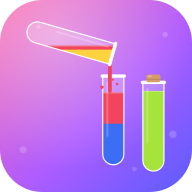
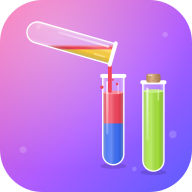
Seamless liquid layers that tilt with the start-screen tubes; Arabic text in Modern Standard Arabic
Claude-Session: https://claude.ai/code/session_018fWx3sb4k38H3yoaSVgWyv

diff --git a/src/js/i18n.js b/src/js/i18n.js
@@ -1,4 +1,4 @@
-// Arabic and English strings. Arabic is written in a friendly Egyptian tone.
+// Arabic and English strings. Arabic is plain, simple Modern Standard Arabic.
 (function (root) {
   'use strict';
   const CP = root.CP = root.CP || {};
@@ -113,110 +113,110 @@
     },
     ar: {
       appName: 'صبّ الألوان',
-      tagline: 'صُبّ، رتّب، وروّق',
+      tagline: 'اسكب، رتّب، واستمتع',
       play: 'العب',
-      level: 'الدور {n}',
-      moves: '{n} خطوة',
-      undo: 'رجوع', restart: 'من الأول', addTube: 'إزازة', hint: 'تلميح',
-      home: 'الرئيسية', settings: 'الإعدادات', close: 'اقفل', back: 'رجوع',
-      tag_boss: 'دور صعب', tag_mystery: 'ألوان مخفية', tag_chill: 'دور رايق', tag_tall: 'إزايز طويلة', tag_daily: 'تحدّي اليوم',
-      intro_mystery: 'في ألوان مستخبية، وهتبان لما توصل لفوق.',
-      intro_tall: 'الإزايز دي بتشيل 5 طبقات.',
-      intro_boss: 'دور صعب، خد وقتك.',
-      tut1: 'دوس على إزازة عشان ترفعها',
-      tut2: 'دلوقتي دوس على الإزازة اللي هتصبّ فيها',
-      tutRule: 'تقدر تصبّ بس على نفس اللون، أو في إزازة فاضية',
-      winTitle: 'برافو! خلّصت الدور',
-      dailyWinTitle: 'كسبت تحدّي النهارده!',
-      next: 'الدور اللي بعده',
-      watchX: 'شوف فيديو ×{n}',
+      level: 'المستوى {n}',
+      moves: 'الحركات: {n}',
+      undo: 'تراجع', restart: 'إعادة', addTube: 'أنبوب', hint: 'تلميح',
+      home: 'الرئيسية', settings: 'الإعدادات', close: 'إغلاق', back: 'رجوع',
+      tag_boss: 'مستوى صعب', tag_mystery: 'ألوان مخفية', tag_chill: 'مستوى سهل', tag_tall: 'أنابيب طويلة', tag_daily: 'تحدي اليوم',
+      intro_mystery: 'بعض الألوان مخفية، وستظهر عندما تصل إلى الأعلى.',
+      intro_tall: 'تتسع هذه الأنابيب لخمس طبقات.',
+      intro_boss: 'مستوى صعب، خذ وقتك.',
+      tut1: 'اضغط على أنبوب لترفعه',
+      tut2: 'الآن اضغط على الأنبوب الذي تريد السكب فيه',
+      tutRule: 'يمكنك السكب فوق اللون نفسه فقط، أو في أنبوب فارغ',
+      winTitle: 'أحسنت! أنهيت المستوى',
+      dailyWinTitle: 'فزت بتحدي اليوم!',
+      next: 'المستوى التالي',
+      watchX: 'شاهد فيديو ×{n}',
       collect: 'استلم',
-      stuckTitle: 'مفيش حركات',
-      stuckBody: 'اتزنقت! اختار حاجة:',
-      deadEnd: 'الوضع ده مالوش حل. ارجع كام خطوة أو زوّد إزازة.',
-      notEnough: 'عملاتك مش مكفّية',
-      undoOutTitle: 'خلصت مرات الرجوع',
-      undoOutBody: 'خد 5 مرات رجوع كمان للدور ده.',
-      tubeTitle: 'إزازة زيادة',
-      tubeBody: 'زوّد إزازة فاضية في الدور ده.',
-      tubeUsed: 'انت زوّدت إزازة في الدور ده خلاص',
+      stuckTitle: 'لا توجد حركات',
+      stuckBody: 'لا توجد حركات متاحة. اختر أحد الحلول:',
+      deadEnd: 'لا يوجد حل لهذا الوضع. تراجع بضع خطوات أو أضف أنبوبًا.',
+      notEnough: 'عملاتك غير كافية',
+      undoOutTitle: 'نفدت مرات التراجع',
+      undoOutBody: 'احصل على 5 مرات تراجع إضافية لهذا المستوى.',
+      tubeTitle: 'أنبوب إضافي',
+      tubeBody: 'أضف أنبوبًا فارغًا إلى هذا المستوى.',
+      tubeUsed: 'لقد أضفت أنبوبًا في هذا المستوى بالفعل',
       hintTitle: 'تلميح',
-      hintBody: 'هنوريك الخطوة الصح اللي جاية.',
-      free: 'ببلاش',
+      hintBody: 'سنريك الحركة الصحيحة التالية.',
+      free: 'مجانًا',
       or: 'أو',
-      useOne: 'استخدم واحدة (معاك {n})',
-      tubeAdded: 'اتزودت إزازة',
-      giftTitle: 'هدية النهارده',
-      giftBody: 'ارجع كل يوم والهدية تكبر. لو فوّت يوم بتبدأ من الأول.',
-      day: 'يوم {n}',
+      useOne: 'استخدم واحدًا (لديك {n})',
+      tubeAdded: 'أُضيف أنبوب',
+      giftTitle: 'هدية اليوم',
+      giftBody: 'عُد كل يوم لتكبر هديتك. إذا فاتك يوم تبدأ من جديد.',
+      day: 'اليوم {n}',
       claim: 'استلم',
-      giftTomorrow: 'تعالى بكرة تاخد هدية يوم {n}',
-      dailyTitle: 'تحدّي اليوم',
-      dailyBody: 'دور مميز كل يوم، فيه ألوان مخفية.',
-      dailyReward: 'الجايزة',
-      dailyDone: 'خلّصته النهارده',
-      dailyPlay: 'العب التحدّي',
-      dailyNew: 'تحدّي جديد بعد {h} ساعة',
+      giftTomorrow: 'عُد غدًا لتحصل على هدية اليوم {n}',
+      dailyTitle: 'تحدي اليوم',
+      dailyBody: 'مستوى مميز كل يوم، فيه ألوان مخفية.',
+      dailyReward: 'الجائزة',
+      dailyDone: 'أنهيته اليوم',
+      dailyPlay: 'العب التحدي',
+      dailyNew: 'تحدٍّ جديد بعد: {h} س',
       wheelTitle: 'عجلة الحظ',
-      spinFree: 'لِف ببلاش',
-      spinVideo: 'لِف تاني',
-      spinsLeft: 'فاضلّك {n} لفّات بالفيديو النهارده',
-      wheelTomorrow: 'تعالى بكرة تاني',
-      youWon: 'كسبت {x}!',
+      spinFree: 'أدِر مجانًا',
+      spinVideo: 'أدِر مرة أخرى',
+      spinsLeft: 'المحاولات المتبقية بالفيديو اليوم: {n}',
+      wheelTomorrow: 'عُد غدًا',
+      youWon: 'ربحت {x}!',
       shopTitle: 'المتجر',
-      tab_tube: 'الإزايز', tab_liquid: 'السوائل', tab_bg: 'الخلفيات', tab_fx: 'الاحتفال', tab_boost: 'المساعدات',
-      use: 'استخدم', inUse: 'مستخدم',
-      bought: 'اتفتحت!',
-      freeCoins: 'عملات ببلاش',
-      freeCoinsBody: '+{n} عملة لكل فيديو · فاضل {left} النهارده',
-      freeCoinsDone: 'تعالى بكرة',
-      have: 'معاك {n}',
-      levelsTitle: 'الأدوار',
+      tab_tube: 'الأنابيب', tab_liquid: 'السوائل', tab_bg: 'الخلفيات', tab_fx: 'الاحتفال', tab_boost: 'المساعدات',
+      use: 'استخدم', inUse: 'مُستخدَم',
+      bought: 'تم الفتح!',
+      freeCoins: 'عملات مجانية',
+      freeCoinsBody: '+{n} عملة لكل فيديو · المتبقي اليوم: {left}',
+      freeCoinsDone: 'عُد غدًا',
+      have: 'لديك {n}',
+      levelsTitle: 'المستويات',
       settingsTitle: 'الإعدادات',
       language: 'اللغة',
-      theme: 'الشكل',
-      themeAuto: 'تلقائي', themeLight: 'فاتح', themeDark: 'غامق',
-      sound: 'الأصوات', music: 'الموسيقى', haptics: 'الاهتزاز',
-      symbols: 'أشكال على الألوان', symbolsHint: 'بيحط شكل على كل لون عشان تفرّق بينهم بسهولة',
-      account: 'احفظ تقدّمك',
-      accountBody: 'سجّل دخول عشان أدوارك وعملاتك يفضلوا معاك على أي موبايل.',
-      withGoogle: 'كمّل بجوجل', withFacebook: 'كمّل بفيسبوك', withEmail: 'كمّل بالإيميل',
+      theme: 'المظهر',
+      themeAuto: 'تلقائي', themeLight: 'فاتح', themeDark: 'داكن',
+      sound: 'المؤثرات الصوتية', music: 'الموسيقى', haptics: 'الاهتزاز',
+      symbols: 'رموز الألوان', symbolsHint: 'يضيف رمزًا لكل لون ليسهل التمييز بينها',
+      account: 'احفظ تقدمك',
+      accountBody: 'سجّل الدخول لتبقى مستوياتك وعملاتك معك على أي جهاز.',
+      withGoogle: 'المتابعة باستخدام Google', withFacebook: 'المتابعة باستخدام Facebook', withEmail: 'المتابعة بالبريد الإلكتروني',
       soon: 'قريبًا',
-      friends: 'الأصحاب', friendsBody: 'سابق صحابك وابعتلهم هدايا',
-      reset: 'امسح كل التقدّم', resetConfirm: 'دوس تاني عشان تمسح كل حاجة',
-      resetDone: 'التقدّم اتمسح',
+      friends: 'الأصدقاء', friendsBody: 'سابق أصدقاءك وأرسل إليهم الهدايا',
+      reset: 'حذف كل التقدم', resetConfirm: 'اضغط مرة أخرى لحذف كل شيء',
+      resetDone: 'تم حذف التقدم',
       adLabel: 'إعلان تجريبي',
-      adTitle: 'مكافأتك جاية',
-      adBody: 'في نسخة التطبيق، هنا هيشتغل فيديو إعلان حقيقي.',
-      adGet: 'خد المكافأة',
-      adLeaveQ: 'تقفل دلوقتي وتخسر المكافأة؟',
-      adKeep: 'كمّل', adLeave: 'اقفل',
-      adFail: 'مفيش فيديو دلوقتي، جرّب كمان شوية.',
-      prize_coins: '{n} عملة', prize_hint: 'تلميح', prize_tube: 'إزازة زيادة',
+      adTitle: 'مكافأتك في الطريق',
+      adBody: 'في نسخة التطبيق سيُعرض هنا إعلان فيديو حقيقي.',
+      adGet: 'احصل على المكافأة',
+      adLeaveQ: 'هل تريد الإغلاق الآن وخسارة المكافأة؟',
+      adKeep: 'متابعة', adLeave: 'إغلاق',
+      adFail: 'لا يتوفر فيديو الآن، حاول بعد قليل.',
+      prize_coins: '{n} عملة', prize_hint: 'تلميح', prize_tube: 'أنبوب إضافي',
       gotCoins: '+{n} عملة',
-      replay: 'إعادة',
-      soonToast: 'هتبقى موجودة في نسخة التطبيق',
-      item_classic: 'كلاسيك', item_glass: 'كوباية', item_vial: 'قارورة', item_cup: 'كاس', item_crystal: 'كريستال', item_golden: 'دهبي',
-      item_juicy: 'عصير', item_pastel: 'باستيل', item_glossy: 'لامع', item_neon: 'نيون', item_bubbles: 'فقاقيع', item_glitter: 'جليتر',
-      item_cloud: 'سحاب', item_sky: 'سما', item_ocean: 'بحر', item_mint: 'نعناع', item_sunset: 'غروب', item_desert: 'صحرا', item_space: 'فضاء',
-      item_confetti: 'كونفيتي', item_hearts: 'قلوب', item_stars: 'نجوم', item_fireworks: 'صواريخ',
-      item_hint: 'تلميح', item_tube: 'إزازة زيادة',
-      dailyShort: 'التحدّي', wheelShort: 'العجلة',
-      duelTile: 'العب مع صاحبك', duelTileSub: 'سباق مباشر وإيموشنات', newBadge: 'جديد',
-      duelTitle: 'العب مع صاحبك',
-      duelBody: 'انت وصاحبك في نفس الدور، واللي يرتّبه الأول يكسب.',
-      duelCreate: 'اعمل لعبة جديدة', duelJoin: 'ادخل', duelCodePh: 'كود اللعبة',
-      duelShare: 'ابعت الكود ده لصاحبك', duelCopy: 'انسخ', duelCopied: 'اتنسخ',
-      duelWaiting: 'مستني صاحبك يدخل…', duelWaitingShort: 'مستنيه…',
-      duelReady: 'أنا جاهز', duelWaitFriend: 'مستني صاحبك…', duelIsReady: 'جاهز', duelNotReady: 'لسه مش جاهز',
-      duelLeave: 'اخرج', duelRound: 'الجولة {n}', duelYou: 'انت', duelFriend: 'صاحبك', duelLeftShort: 'خرج',
-      duelWin: 'كسبت!', duelLose: '{name} كسب الجولة دي', duelAgain: 'العب تاني',
-      duelFriendWants: '{name} عايز يلعب تاني!', duelLeft: '{name} خرج من اللعبة',
-      duelUnavailable: 'اللعب المباشر بيشتغل لما تفتح اللعبة من اللينك وانت مسجّل دخول. وفي نسخة التطبيق هييجي مع الحسابات.',
-      duelShareNote: 'لازم صاحبك يكون معاه صلاحية على لينك اللعبة (من زرار المشاركة).',
-      duelBadCode: 'اكتب الكود (4 حروف)', duelConnecting: 'بنوصّلك…',
-      emotes: 'إيموشنات', msgPh: 'اكتب رسالة', send: 'ابعت', go: 'يلا!',
-      phr_hi: 'أهلًا!', phr_gg: 'لعبة حلوة!', phr_fast: 'أسرع منك يا معلم', phr_wait: 'استناني!', phr_again: 'نلعب تاني؟', phr_wow: 'يا سلام!',
+      replay: 'إعادة اللعب',
+      soonToast: 'ستتوفر في نسخة التطبيق',
+      item_classic: 'كلاسيكي', item_glass: 'كوب', item_vial: 'قارورة', item_cup: 'كأس', item_crystal: 'كريستال', item_golden: 'ذهبي',
+      item_juicy: 'عصير', item_pastel: 'باستيل', item_glossy: 'لامع', item_neon: 'نيون', item_bubbles: 'فقاعات', item_glitter: 'بريق',
+      item_cloud: 'سحاب', item_sky: 'سماء', item_ocean: 'بحر', item_mint: 'نعناع', item_sunset: 'غروب', item_desert: 'صحراء', item_space: 'فضاء',
+      item_confetti: 'قصاصات ملونة', item_hearts: 'قلوب', item_stars: 'نجوم', item_fireworks: 'ألعاب نارية',
+      item_hint: 'تلميح', item_tube: 'أنبوب إضافي',
+      dailyShort: 'التحدي', wheelShort: 'العجلة',
+      duelTile: 'العب مع صديق', duelTileSub: 'سباق مباشر ورموز تعبيرية', newBadge: 'جديد',
+      duelTitle: 'العب مع صديق',
+      duelBody: 'أنت وصديقك في المستوى نفسه، ومن يرتّبه أولًا يفوز.',
+      duelCreate: 'أنشئ لعبة جديدة', duelJoin: 'انضم', duelCodePh: 'رمز اللعبة',
+      duelShare: 'أرسل هذا الرمز إلى صديقك', duelCopy: 'نسخ', duelCopied: 'تم النسخ',
+      duelWaiting: 'في انتظار انضمام صديقك…', duelWaitingShort: 'في الانتظار…',
+      duelReady: 'أنا مستعد', duelWaitFriend: 'في انتظار صديقك…', duelIsReady: 'مستعد', duelNotReady: 'غير مستعد بعد',
+      duelLeave: 'مغادرة', duelRound: 'الجولة {n}', duelYou: 'أنت', duelFriend: 'صديقك', duelLeftShort: 'غادر',
+      duelWin: 'فزت!', duelLose: 'فاز {name} بهذه الجولة', duelAgain: 'العب مجددًا',
+      duelFriendWants: '{name} يريد اللعب مجددًا!', duelLeft: 'غادر {name} اللعبة',
+      duelUnavailable: 'يعمل اللعب المباشر عند فتح اللعبة من الرابط مع تسجيل الدخول، وسيتوفر في نسخة التطبيق مع الحسابات.',
+      duelShareNote: 'يجب أن يملك صديقك صلاحية الوصول إلى رابط اللعبة (من زر المشاركة).',
+      duelBadCode: 'اكتب الرمز (4 أحرف)', duelConnecting: 'جارٍ الاتصال…',
+      emotes: 'رموز تعبيرية', msgPh: 'اكتب رسالة', send: 'إرسال', go: 'انطلق!',
+      phr_hi: 'مرحبًا!', phr_gg: 'لعبة رائعة!', phr_fast: 'أنا أسرع منك', phr_wait: 'انتظرني!', phr_again: 'نلعب مجددًا؟', phr_wow: 'رائع!',
     },
   };
 

diff --git a/src/js/render.js b/src/js/render.js
@@ -178,14 +178,18 @@
     pathFrom(ctx, poly);
     ctx.clip();
 
-    // liquid bands, each cut by a level line so the surface stays flat while tilting
+    // liquid bands. Normally each is cut by a level line so the surface stays flat while pouring;
+    // a "rigid" tube (the start screen characters) keeps its layers square to the glass instead.
+    const rigid = !!tv.rigid && !upright;
     const unitA = UNIT * W * W;
-    let cum = 0, lowY = b.y1 + 2;
+    const polyU = rigid ? transform(g.poly, W, 0, 0, 0) : null;
+    const bU = rigid ? bounds(polyU) : null;
+    let cum = 0, lowY = (rigid ? bU.y1 : b.y1) + 2;
     const bands = [];
     for (const L of tv.layers) {
       if (L.amt <= 0.001) continue;
       cum += L.amt * unitA;
-      const h = levelFor(poly, b, cum);
+      const h = rigid ? levelFor(polyU, bU, cum) : levelFor(poly, b, cum);
       bands.push({ L, top: h, bot: lowY });
       lowY = h;
     }
@@ -194,22 +198,26 @@
       if (!L.hidden && L.reveal != null && L.reveal < 1) col = mix(th.mystery, col, L.reveal);
       return col;
     };
-    for (const band of bands) {
+    // Paint from the top band down, each reaching to the bottom of the tube, so neighbouring
+    // colours always overlap and no seam can show between them.
+    if (rigid) local();
+    const fx = rigid ? -W : b.x0 - 4, fw = rigid ? W * 2 : b.x1 - b.x0 + 8, floorY = (rigid ? bU.y1 : b.y1) + 4;
+    for (let i = bands.length - 1; i >= 0; i--) {
+      const band = bands[i];
       ctx.fillStyle = colorOf(band.L);
-      ctx.fillRect(b.x0 - 4, band.top - 0.5, b.x1 - b.x0 + 8, band.bot - band.top + 1);
-      if (style.liquid === 'glossy' || style.liquid === 'neon') {
-        ctx.fillStyle = style.liquid === 'neon' ? 'rgba(255,255,255,0.55)' : 'rgba(255,255,255,0.3)';
-        ctx.fillRect(b.x0 - 4, band.top, b.x1 - b.x0 + 8, Math.max(1.5, W * 0.05));
-      }
+      ctx.fillRect(fx, band.top - 0.5, fw, floorY - band.top + 0.5);
     }
+    if (style.liquid === 'glossy' || style.liquid === 'neon') {
+      ctx.fillStyle = style.liquid === 'neon' ? 'rgba(255,255,255,0.55)' : 'rgba(255,255,255,0.3)';
+      for (const band of bands) ctx.fillRect(fx, band.top, fw, Math.max(1.5, W * 0.05));
+    }
+    if (rigid) ctx.restore();
     if (bands.length) {
       const top = bands[bands.length - 1].top;
       // round, lit shading across the liquid
       ctx.save();
-      ctx.beginPath();
-      ctx.rect(b.x0 - 6, top, b.x1 - b.x0 + 12, b.y1 - top + 6);
-      ctx.clip();
-      local();
+      if (rigid) { local(); ctx.beginPath(); ctx.rect(-W, top, W * 2, bU.y1 - top + 6); ctx.clip(); }
+      else { ctx.beginPath(); ctx.rect(b.x0 - 6, top, b.x1 - b.x0 + 12, b.y1 - top + 6); ctx.clip(); local(); }
       const sh = ctx.createLinearGradient(-W / 2, 0, W / 2, 0);
       sh.addColorStop(0, 'rgba(0,0,0,0.24)');
       sh.addColorStop(0.22, 'rgba(255,255,255,0.10)');
@@ -220,17 +228,17 @@
       ctx.fillRect(-W, -W, W * 2, g.H * W + W * 2);
       ctx.restore();
       ctx.restore();
-      // the surface: a lit ellipse when standing, a bright line when tilted
+      // the surface: a lit ellipse when standing (or rigid), a bright line when the liquid levels out
       const topCol = colorOf(bands[bands.length - 1].L);
-      if (upright) {
+      if (upright || rigid) {
         ctx.fillStyle = mix(topCol.length === 7 ? topCol : '#888888', '#FFFFFF', 0.38);
-        ctx.beginPath();
-        ctx.ellipse(tv.x, top, W * 0.47, W * 0.085, 0, 0, Math.PI * 2);
-        ctx.fill();
+        if (rigid) { local(); ctx.beginPath(); ctx.ellipse(0, top, W * 0.47, W * 0.085, 0, 0, Math.PI * 2); ctx.fill(); ctx.restore(); }
+        else { ctx.beginPath(); ctx.ellipse(tv.x, top, W * 0.47, W * 0.085, 0, 0, Math.PI * 2); ctx.fill(); }
       } else {
         ctx.fillStyle = 'rgba(255,255,255,0.38)';
         ctx.fillRect(b.x0 - 4, top, b.x1 - b.x0 + 8, Math.max(1.5, W * 0.045));
       }
+      if (rigid) { bands.forEach(bd => { bd.top = tv.y + Math.cos(a) * bd.top; bd.bot = tv.y + Math.cos(a) * bd.bot; }); }
       if (style.liquid === 'bubbles' || style.liquid === 'glitter') drawSparkles(ctx, tv, b, top, W, style);
     }
 

diff --git a/src/js/ui.js b/src/js/ui.js
@@ -557,7 +557,7 @@
       const bx = cx + ch.dx * W, by = floor - hop + bob;
       const HW = g.H * Wi;
       const px = bx + Math.sin(sway) * HW, py = by - Math.cos(sway) * HW;
-      R.drawTube(ctx, { id: 20 + i, x: px, y: py, angle: sway, W: Wi, layers: ch.layers.map(c2 => ({ c: c2, amt: 1, hidden: false })), complete: false, shadow: false }, g, style);
+      R.drawTube(ctx, { id: 20 + i, x: px, y: py, angle: sway, W: Wi, layers: ch.layers.map(c2 => ({ c: c2, amt: 1, hidden: false })), complete: false, shadow: false, rigid: true }, g, style);
       const fy = HW * 0.6;
       ctx.save();
       ctx.translate(px - Math.sin(sway) * fy, py + Math.cos(sway) * fy);

diff --git a/tools/make-icons.js b/tools/make-icons.js
@@ -68,7 +68,7 @@ window.draw = (kind, w, h) => {
     ctx.shadowBlur = 0; ctx.shadowOffsetY = 0;
     ctx.font = '800 ' + Math.round(h * 0.055) + 'px "Baloo Bhaijaan 2", sans-serif';
     ctx.fillStyle = 'rgba(255,255,255,0.9)';
-    ctx.fillText('صُبّ، رتّب، وروّق', w * 0.7, h * 0.78);
+    ctx.fillText('اسكب، رتّب، واستمتع', w * 0.7, h * 0.78);
   }
   return c.toDataURL('image/png');
 };

diff --git a/tools/build.py b/tools/build.py
@@ -13,7 +13,7 @@ SRC = ROOT / "src"
 DIST = ROOT / "dist"
 SITE_URL = "https://didamony.github.io/color-pour/"
 TITLE = "صبّ الألوان · Color Pour"
-DESCRIPTION = "لعبة ترتيب ألوان كيوت: صُبّ الألوان ورتّب كل لون في إزازة. أدوار مالهاش آخر، متجر، هدية كل يوم، واللعب مع صحابك."
+DESCRIPTION = "لعبة ترتيب ألوان ممتعة: اسكب الألوان ورتّب كل لون في أنبوب. مستويات لا تنتهي، ومتجر، وهدية يومية، واللعب مع الأصدقاء."
 
 HEAD = f"""<title>{TITLE}</title>
 <meta name="description" content="{DESCRIPTION}">
